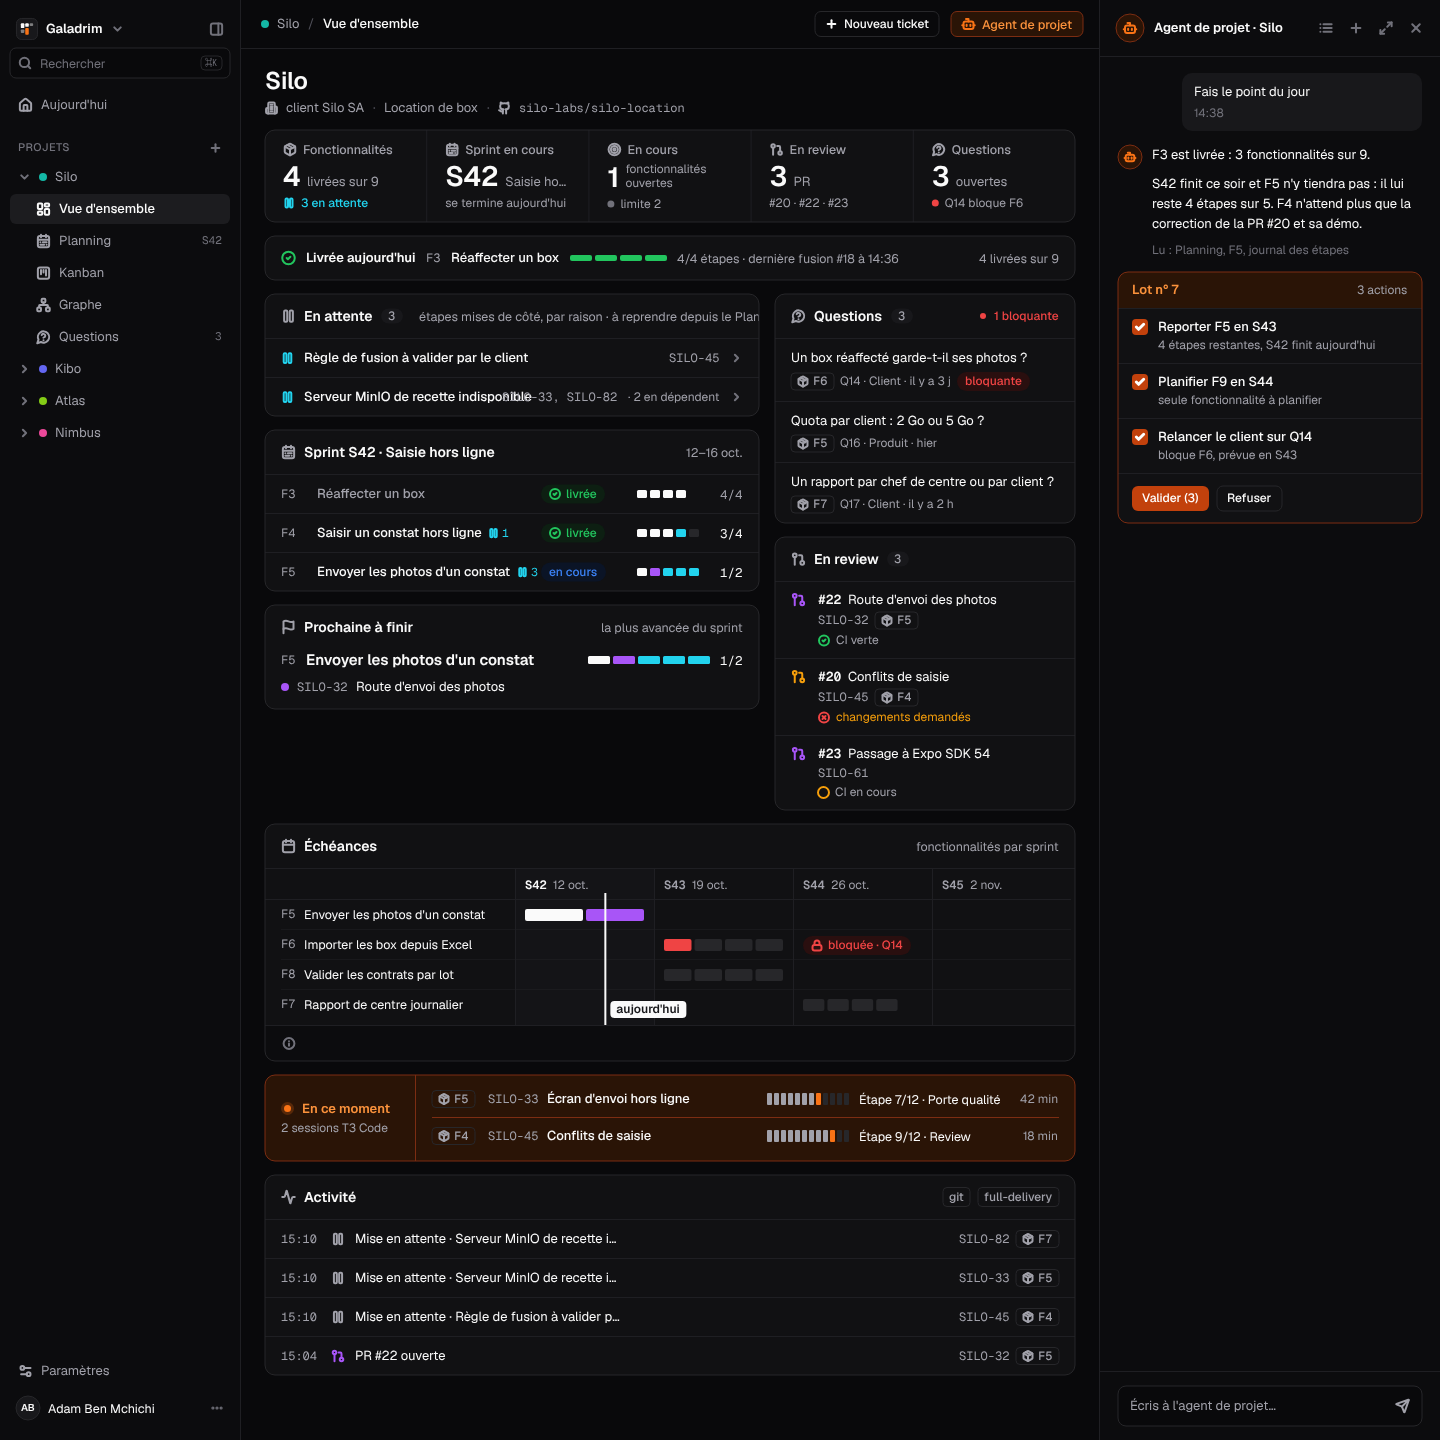
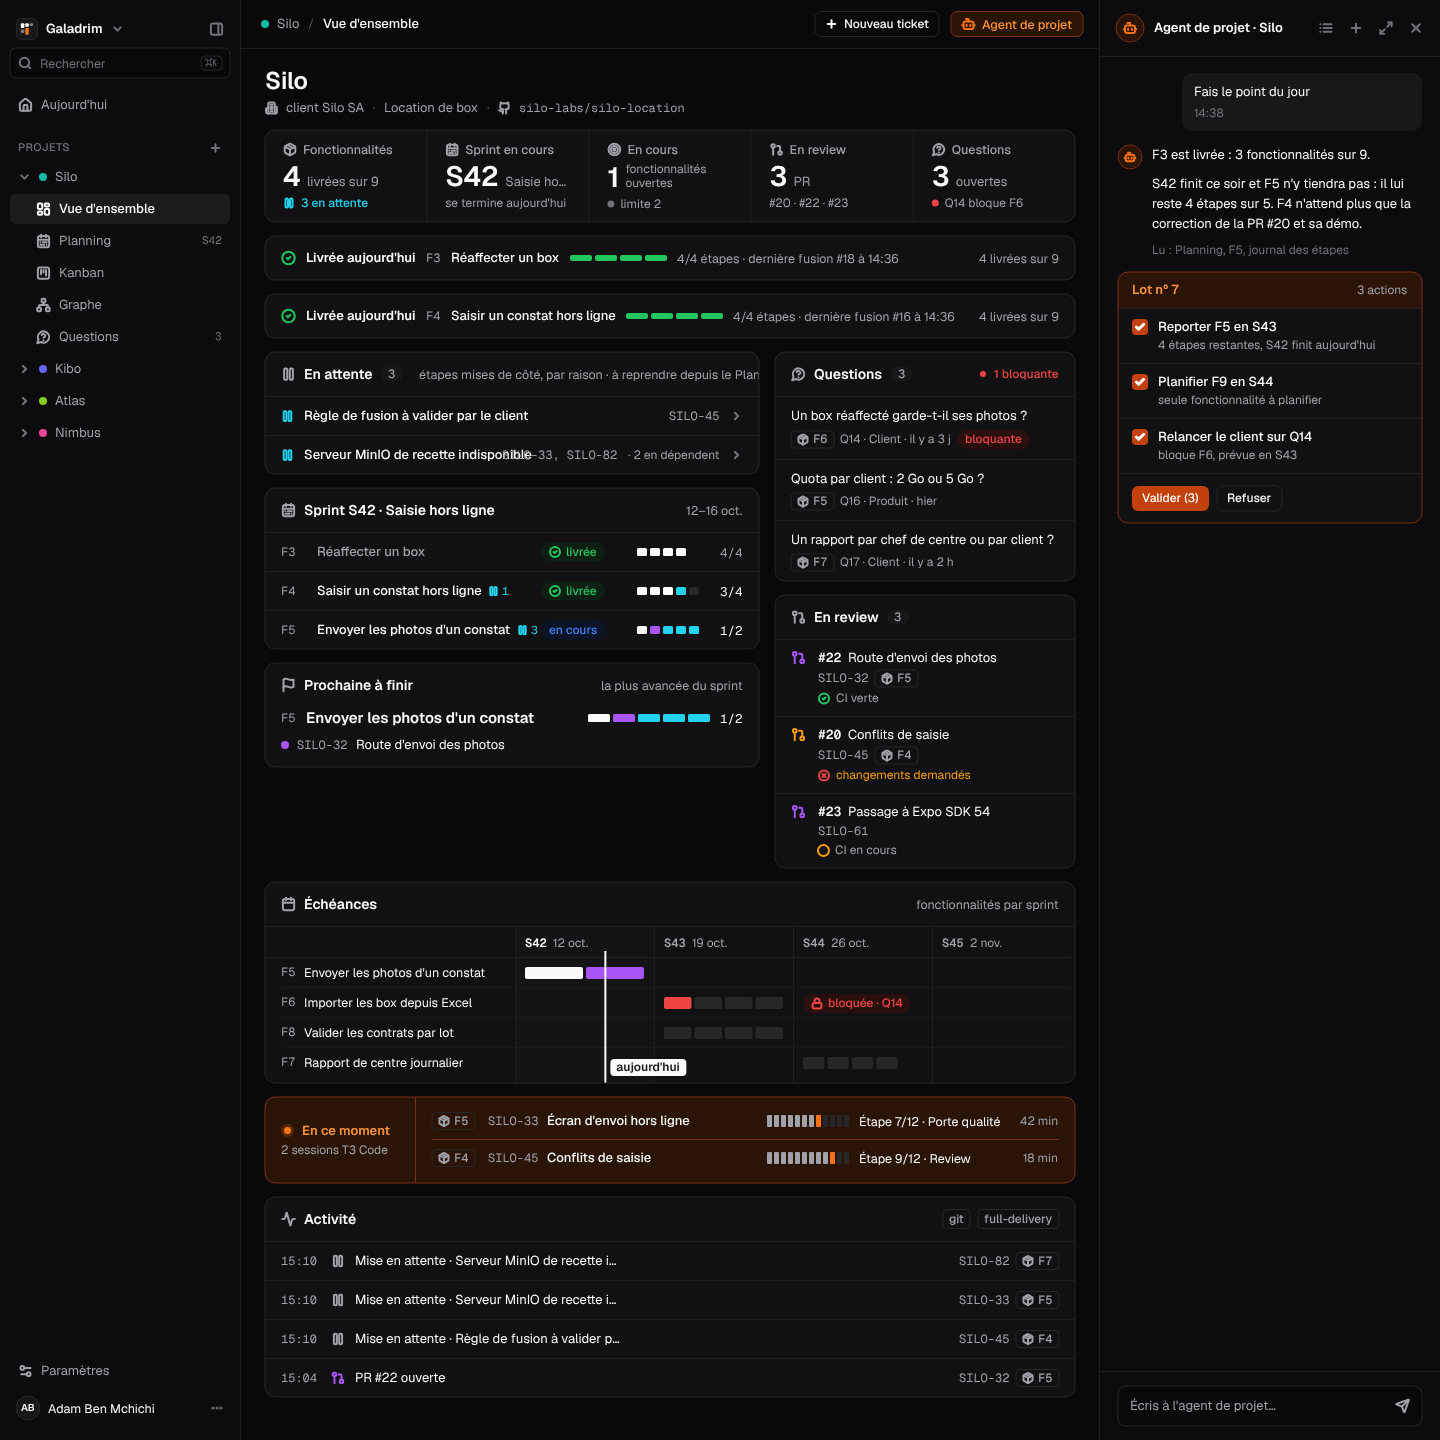
docs(design): maquette attente à jour

diff --git a/design/redesign/scripts/61-phase-34.js b/design/redesign/scripts/61-phase-34.js
@@ -569,6 +569,13 @@ S.INPLACE34 = {
   "P9c · Supprimer la question": async (b) => { const r = await S.p34Questions(b); for (const n of ["veil", "dialog"]) { const d = b.children.find(c => c.name === n); if (d) d.bringToFront(); } return r; },
   "P9d · Questions, répondues": (b) => S.p34Questions(b, { qs: [S.Q34[1]], state: "répondue", openCount: 2, summary: "1 répondue" }),
 };
+S.vueAttente34 = async (b) => { S.setMode(S.modeOf(b)); const ech = S.card34(b, "Échéances"), first = S.card34(b, "Livrée aujourd'hui"), main = S.parentOf(b, first);
+  for (const c of ech.children.filter(c => c.name === "legend-bar" || c.name === "legend-line")) c.remove();
+  if (!penpotUtils.findShapes(s => s.type === "text" && s.characters === "F4", main).some(t => S.parentOf(main, t).name.replace(/\s/g, "").startsWith("card/Livrée"))) {
+    const r = S.showAfter(main, first, S.livreeRow({ total: S.texts34(first).find(t => /livrées sur/.test(t)) })); r.layoutChild.horizontalSizing = "fill";
+    const set = (from, to) => { const t = S.byText(r, from); t.characters = to; S.refont(t); };
+    set("F3", "F4"); set("Réaffecter un box", "Saisir un constat hors ligne"); set("4/4 étapes · dernière fusion #18 à 14:36", "4/4 étapes · dernière fusion #16 à 14:36"); }
+  return S.p34Fit(b); };
 S.FIX34 = { vue: (b) => S.p34Legend(b), planning: (b) => S.p34PlanLegend(b), graph: (b) => ({ edges: S.noEdges34(b), legend: S.graphLegend34(b) }), waiting: (b) => S.waiting34(b) };
 S.fix34 = async (name, kind) => { await S.page("Proposition"); const b = penpot.currentPage.root.children.find(c => c.name === name); if (!b) throw new Error("missing board: " + name);
   S.setMode(S.modeOf(b)); S.placed = []; const r = S.FIX34[kind](b); await S.wait(600); const relaid = await S.relayout34(b); return { r, relaid, bottom: S.bottom34(b) }; };
